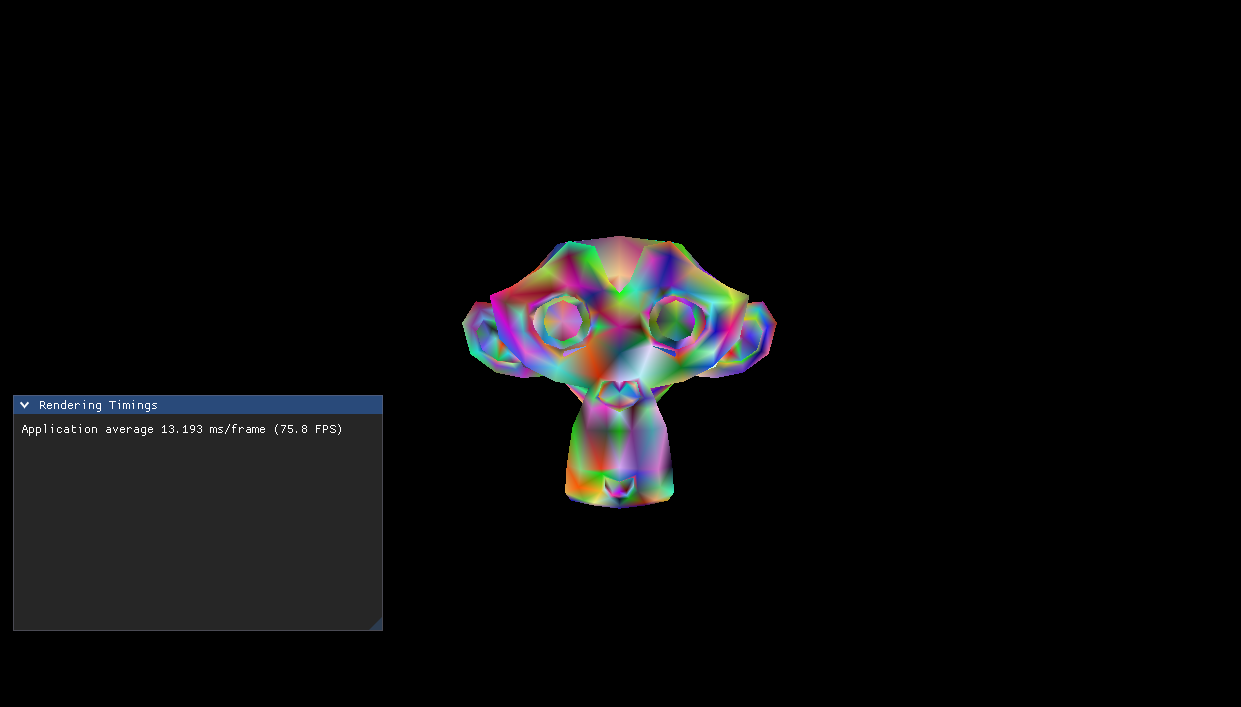
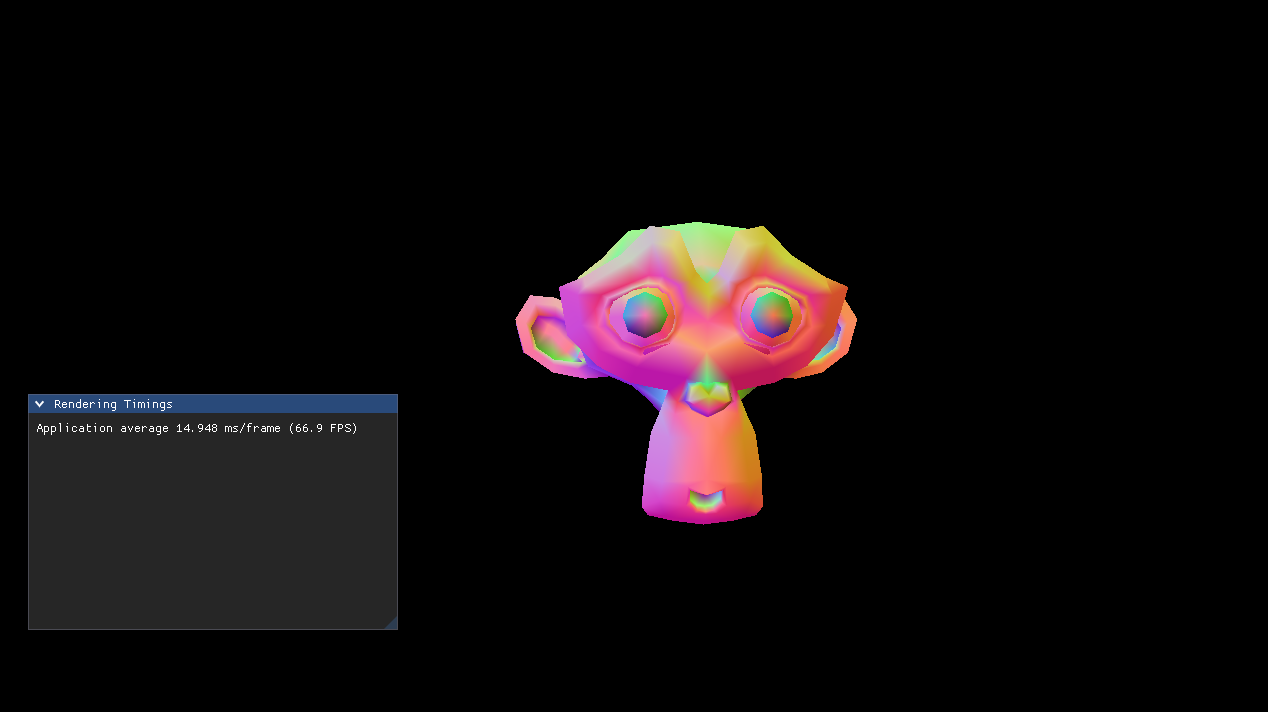
feat: add vertex normal support

Changed region(s): [[0.3674, 0.3112, 0.6737, 0.7468], [0.0, 0.529, 0.3368, 0.9024]]

diff --git a/src/colloid/parsers/ObjectParser.h b/src/colloid/parsers/ObjectParser.h
@@ -180,31 +180,32 @@ namespace colloid
                         auto [it, added] = vertexDuplicates.insert({ vertexIdx, mesh.position.size() });
                         if (added)
                         {
+                            // Position
                             mesh.position.emplace_back(attrib.vertices[3 * static_cast<size_t>(vertexIdx) + 0],
                                                        attrib.vertices[3 * static_cast<size_t>(vertexIdx) + 1],
                                                        attrib.vertices[3 * static_cast<size_t>(vertexIdx) + 2]);
+                            // Texture Coordinates
                             if (texCoordIdx >= 0)
                             {
                                 mesh.uv.emplace_back(attrib.texcoords[2 * static_cast<size_t>(texCoordIdx) + 0],
                                                      attrib.texcoords[2 * static_cast<size_t>(texCoordIdx) + 1]);
                             }
-                            mesh.color.emplace_back(genRandom(), genRandom(), genRandom(),
-                                                    1.0f); // 1.0f for alpha channel
+
+                            // Normals
+                            if (normalIdx >= 0)
+                            {
+                                mesh.normals.emplace_back(attrib.normals[3 * static_cast<size_t>(normalIdx) + 0],
+                                                          attrib.normals[3 * static_cast<size_t>(normalIdx) + 1],
+                                                          attrib.normals[3 * static_cast<size_t>(normalIdx) + 2]);
+                            }
+                            // Normalize the normal values from -1 to 1 to 0 to 1
+                            mesh.color.emplace_back((mesh.normals[it->second] + flcn::Vec3F(1.0f, 1.0f, 1.0f)) * 0.5f, 1.0f);
+                            // Random vertex colors
+                            // mesh.color.emplace_back(genRandom(), genRandom(), genRandom(),
+                            //                         1.0f); // 1.0f for alpha channel
                         }
+                        // Indices
                         mesh.indices.emplace_back(static_cast<uint32_t>(it->second));
-
-                        // Check if `normal_index` is zero or positive. negative = no normal data
-                        // if (normal_index >= 0)
-                        // {
-                        //     tinyobj::real_t nx = attrib.normals[3 * size_t(normal_index) + 0];
-                        //     tinyobj::real_t ny = attrib.normals[3 * size_t(normal_index) + 1];
-                        //     tinyobj::real_t nz = attrib.normals[3 * size_t(normal_index) + 2];
-                        // }
-
-                        // Optional: vertex colors
-                        // tinyobj::real_t red   = attrib.colors[3*size_t(idx.vertex_index)+0];
-                        // tinyobj::real_t green = attrib.colors[3*size_t(idx.vertex_index)+1];
-                        // tinyobj::real_t blue  = attrib.colors[3*size_t(idx.vertex_index)+2];
                     }
                     indexOffset += fv;
 

diff --git a/src/colloid/Mesh.h b/src/colloid/Mesh.h
@@ -36,5 +36,6 @@ namespace colloid
         std::vector<flcn::Vec3F> position;
         std::vector<flcn::CVec2F> uv;
         std::vector<flcn::Vec4F> color;
+        std::vector<flcn::Vec3F> normals;
     };
 } // namespace demo
